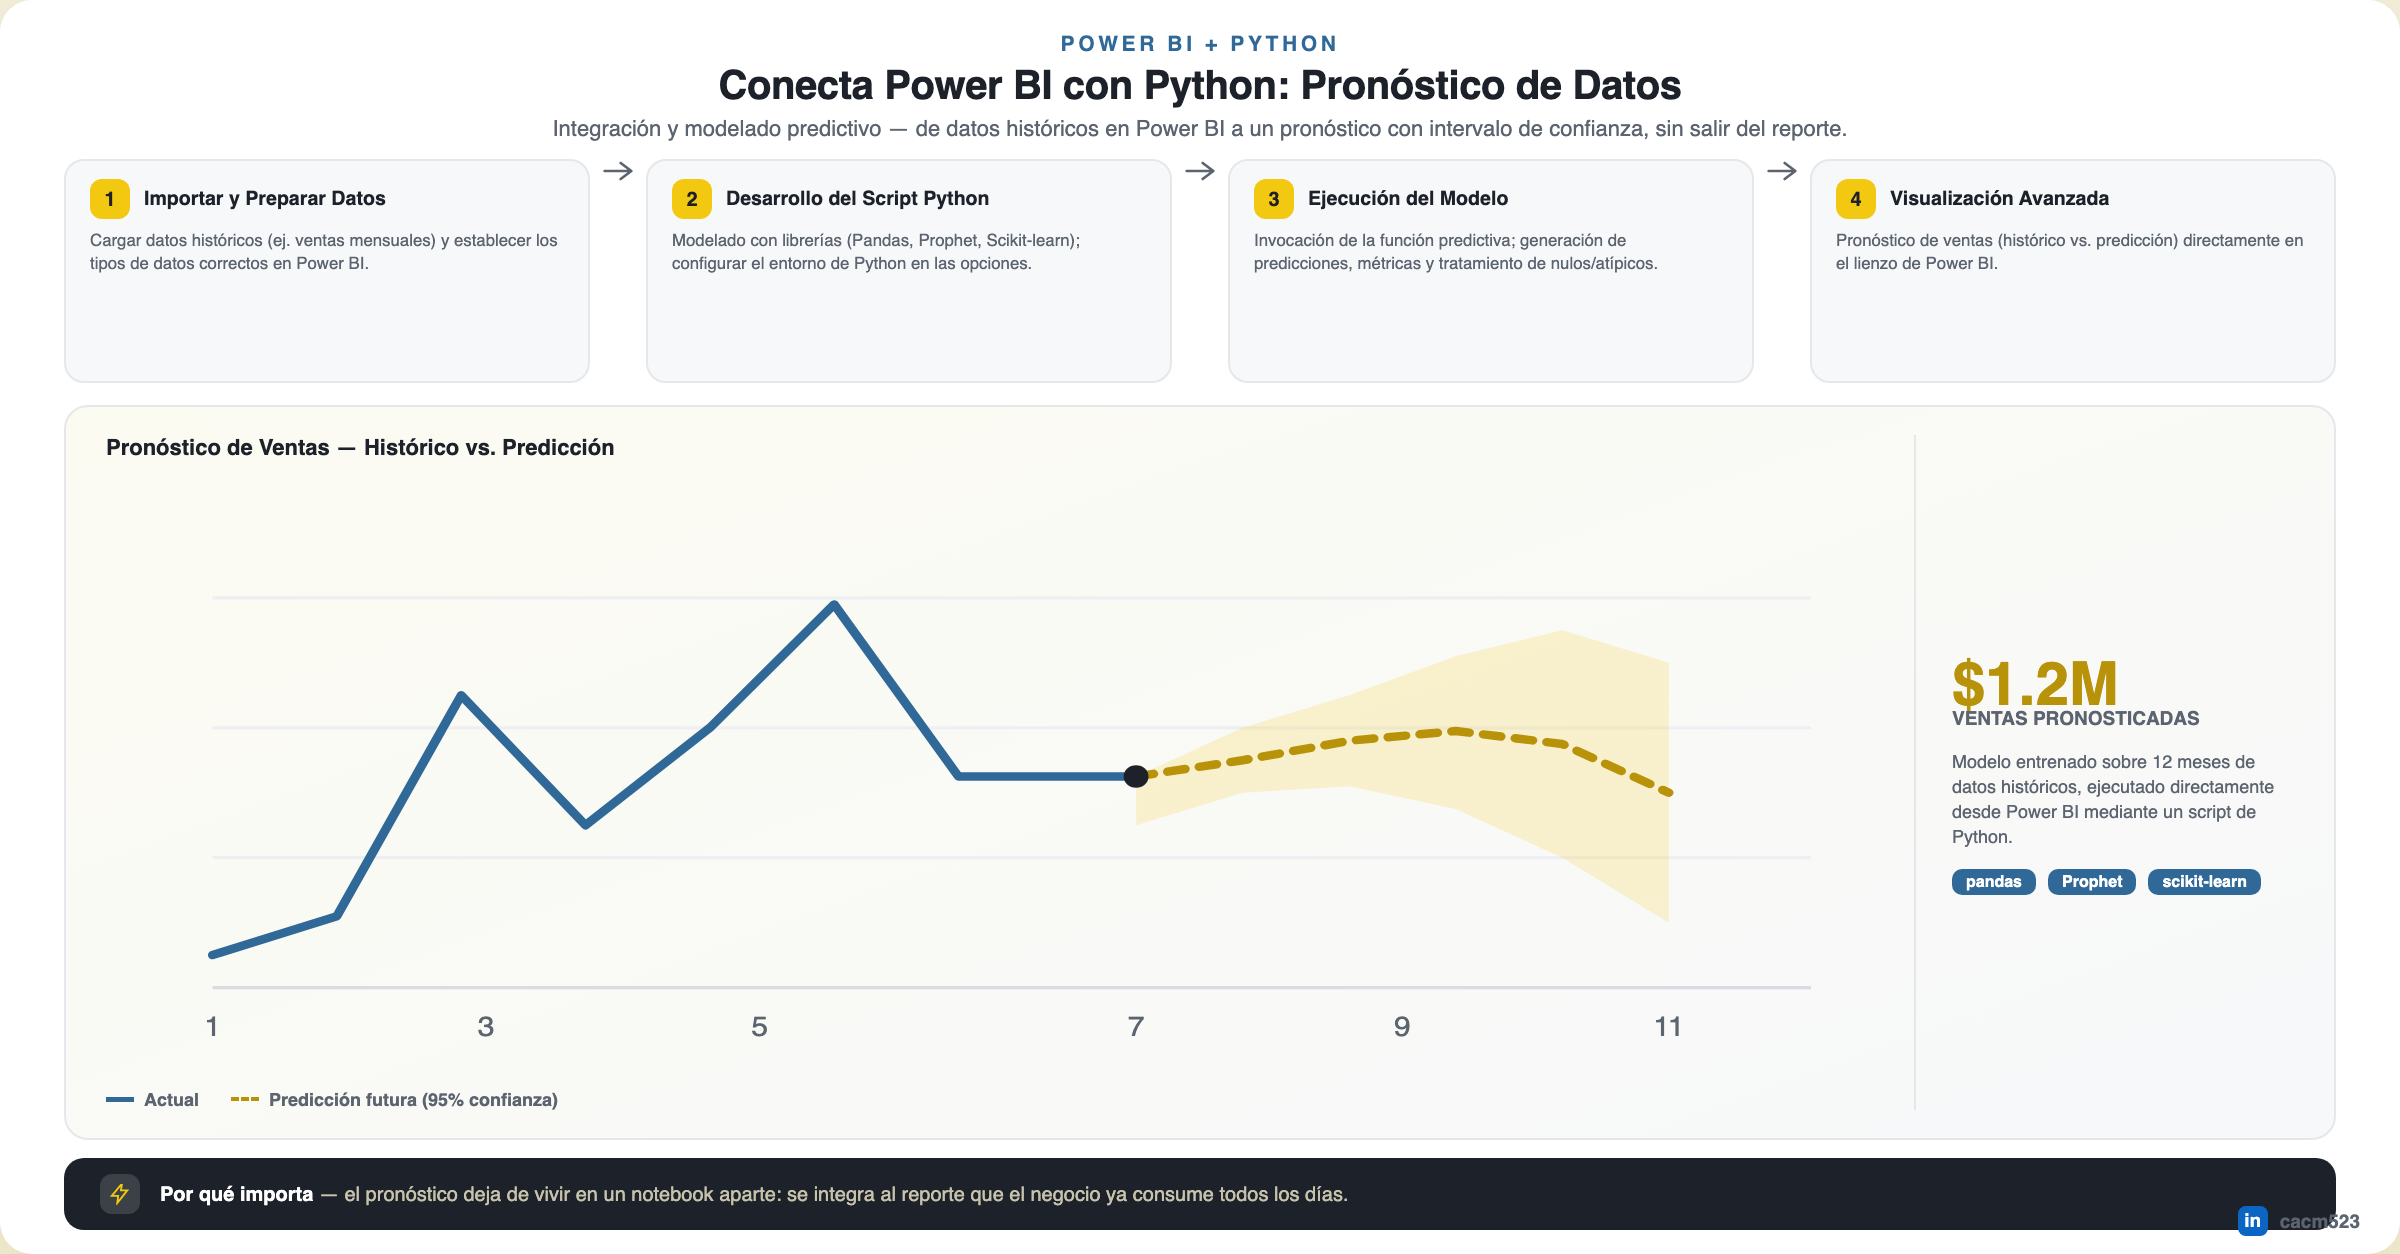
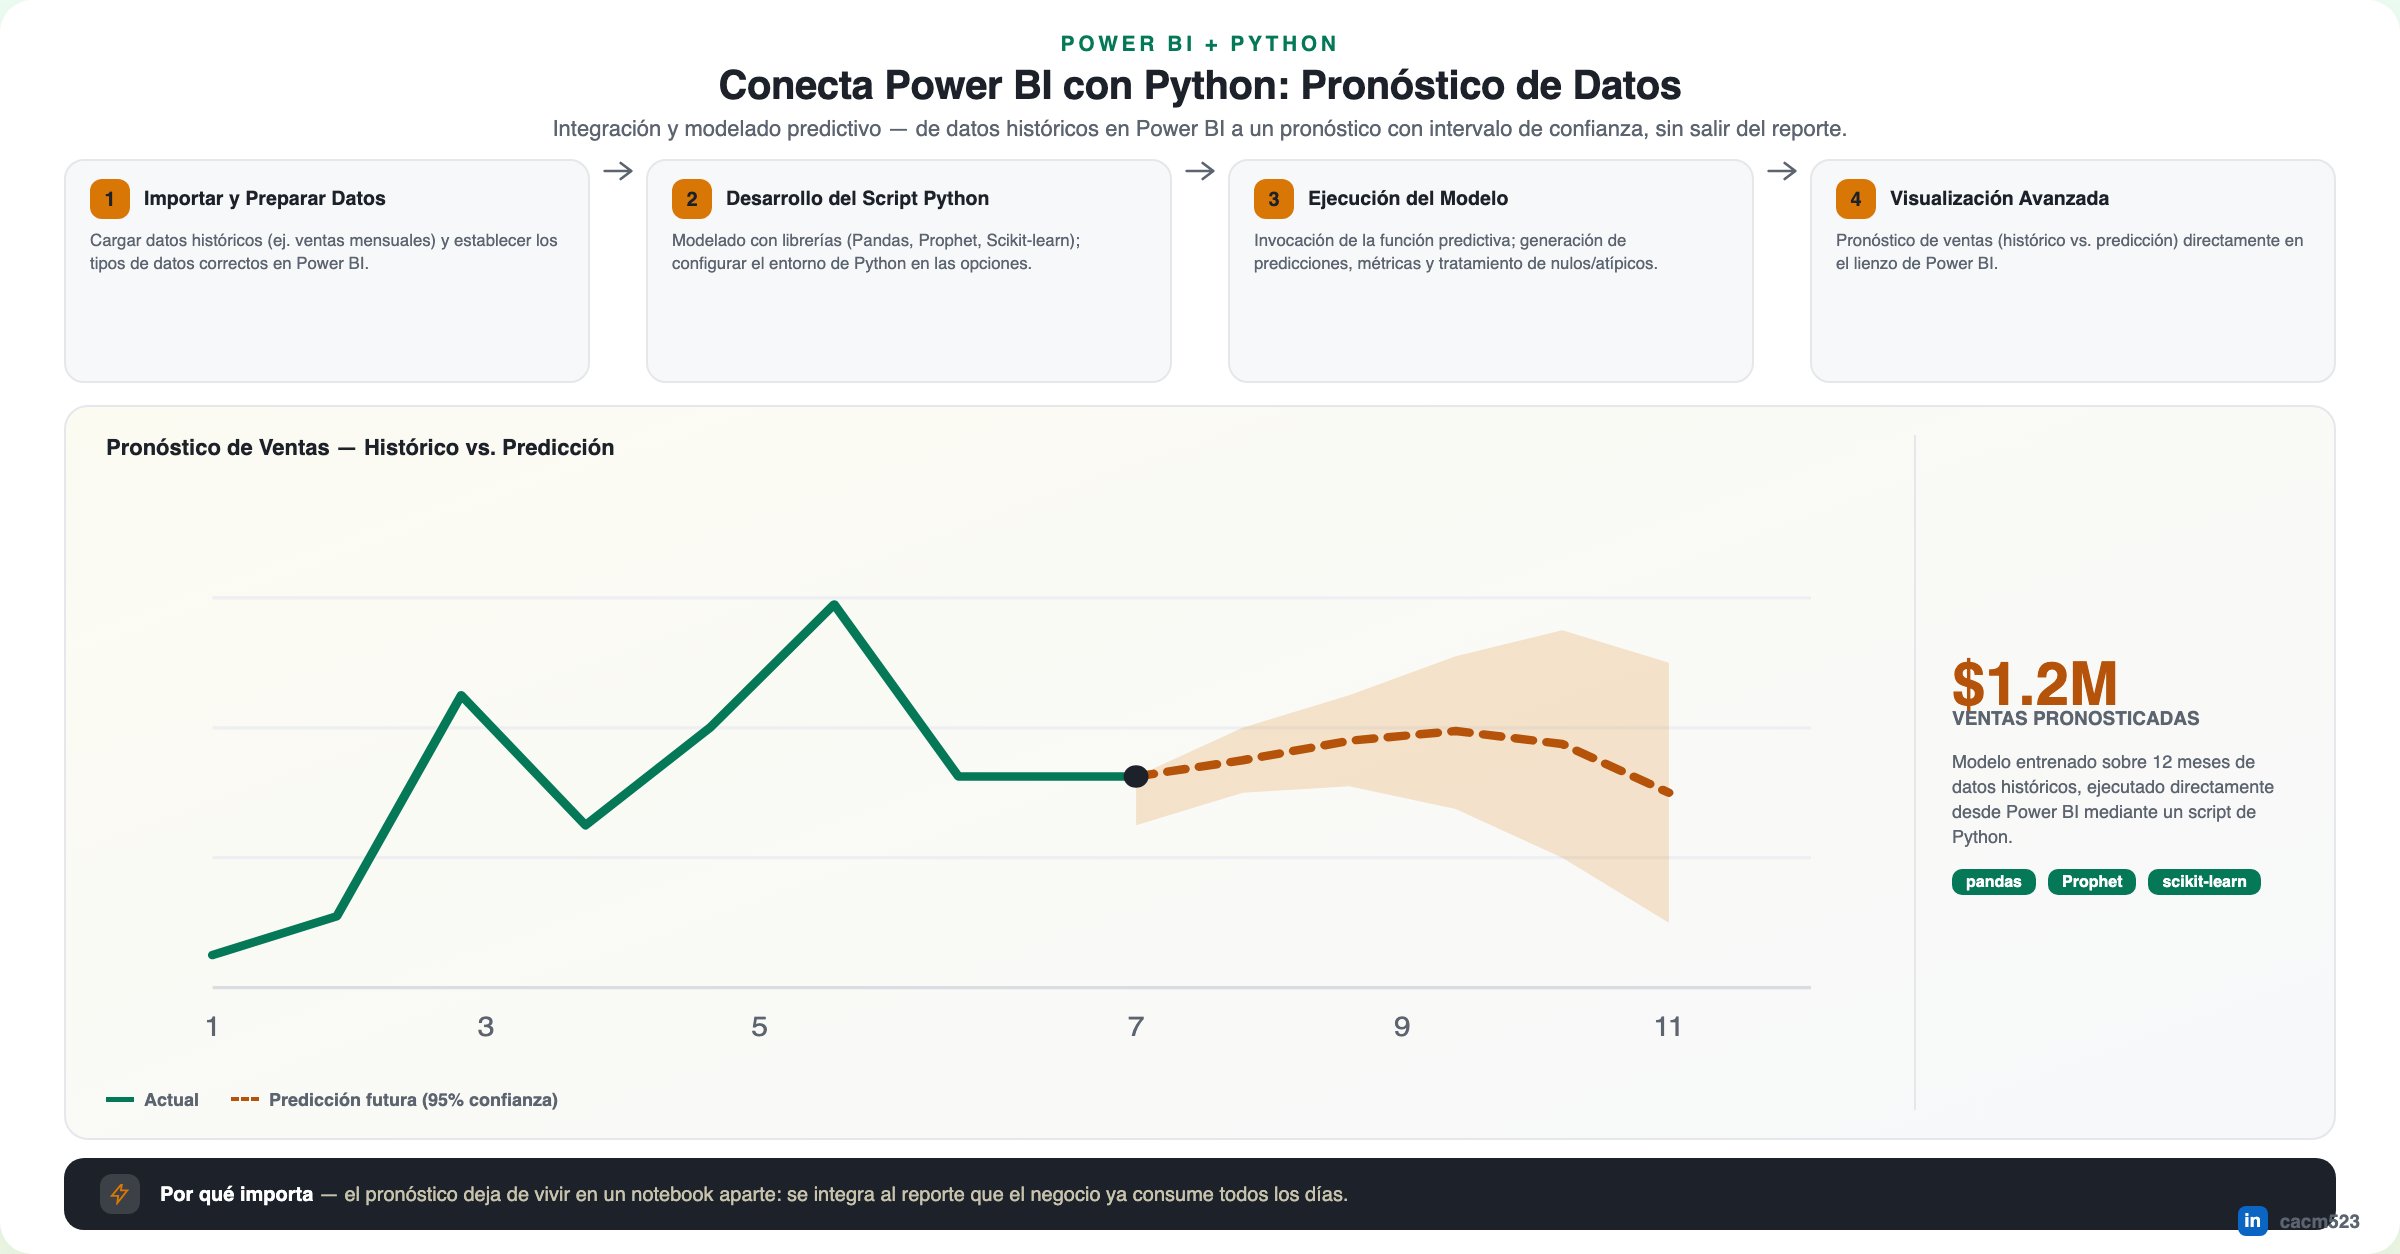
Tanda 9 (powerbi-y-visualizacion): corrige paleta en 2 piezas
- usar-dominar-power-bi: convierte de tema oscuro navy completo a canvas claro verde+tierra (violaba no-dark-mode), conserva el iceberg en tonos hielo como excepción literal
- integracion-python-power-bi: azul/dorado a verde/tierra en gráfico y badges

diff --git a/Construidos/PowerBI/usar-dominar-power-bi.html b/Construidos/PowerBI/usar-dominar-power-bi.html
@@ -6,23 +6,23 @@
 <meta name="viewport" content="width=device-width, initial-scale=1">
 <style>
   :root{
-    --gold:#F2C811; --gold-dark:#C79A0A;
-    --navy:#0B2A4A; --navy2:#0A2039; --deep:#061626;
-    --ice:#EAF3FB; --ice2:#BBD8EE;
-    --ink:#0B1622; --muted:#7D93A8; --white:#FFFFFF;
+    --gold:#D97706; --gold-dark:#B45309;
+    --navy:#ECFDF5; --navy2:#F0FDF9; --deep:#E6F8F0;
+    --ice:#CBD9E0; --ice2:#9FB8C4;
+    --ink:#0F172A; --muted:#475569; --white:#0F172A;
   }
   *{box-sizing:border-box;}
   html,body{margin:0;padding:0;}
   body{
     min-height:627px; display:flex; align-items:center; justify-content:center;
-    padding:32px 16px; background:#0A1F33;
+    padding:32px 16px; background:#ECFDF5;
     font-family: Inter, -apple-system, "Segoe UI", Roboto, Helvetica, Arial, sans-serif;
   }
   .canvas-wrap{ width:100%; max-width:1200px; overflow-x:auto; }
   .canvas{
     position:relative; width:1200px; height:627px; margin:0 auto;
     background:linear-gradient(180deg, var(--navy) 0%, var(--navy2) 55%, var(--deep) 100%);
-    border-radius:16px; box-shadow:0 20px 50px rgba(0,0,0,0.4); overflow:hidden;
+    border-radius:16px; box-shadow:0 20px 50px rgba(6,78,59,0.16); overflow:hidden;
     padding:18px 34px 12px; color:var(--white);
     display:flex; flex-direction:column; min-height:0;
   }
@@ -31,7 +31,7 @@
   .header .eyebrow{ font-size:10.5px; font-weight:700; letter-spacing:1.8px; color:var(--gold); text-transform:uppercase; margin-bottom:4px; }
   .header h1{ font-size:21px; margin:0 0 4px; font-weight:800; letter-spacing:-0.2px; }
   .header h1 em{ font-style:normal; color:var(--gold); }
-  .header p{ margin:0 auto; font-size:11px; color:#B7C7D8; max-width:720px; }
+  .header p{ margin:0 auto; font-size:11px; color:var(--muted); max-width:720px; }
 
   .main{ flex:1; min-height:0; display:flex; align-items:center; gap:26px; }
   .iceberg-wrap{ flex:none; width:340px; height:100%; position:relative; }
@@ -39,26 +39,26 @@
 
   .legend{ flex:1; display:flex; flex-direction:column; gap:9px; height:100%; justify-content:center; }
   .lrow{ display:flex; align-items:center; gap:13px; padding:10px 16px; border-radius:10px; }
-  .lrow.tip{ background:rgba(242,200,17,0.14); border:1px solid rgba(242,200,17,0.4); }
-  .lrow.deep{ background:rgba(255,255,255,0.05); border:1px solid rgba(255,255,255,0.12); }
+  .lrow.tip{ background:rgba(217,119,6,0.10); border:1px solid rgba(217,119,6,0.35); }
+  .lrow.deep{ background:#F8FAFC; border:1px solid #D1FAE5; }
   .lrow .icon{ width:34px; height:34px; border-radius:9px; display:flex; align-items:center; justify-content:center; flex:none; }
   .lrow.tip .icon{ background:var(--gold); color:var(--navy); }
-  .lrow.deep .icon{ background:rgba(255,255,255,0.14); color:var(--ice); }
+  .lrow.deep .icon{ background:#064E3B; color:#ffffff; }
   .lrow .icon svg{ width:18px; height:18px; }
   .lrow b{ display:block; font-size:13.5px; font-weight:800; }
   .lrow.tip b{ color:var(--gold); }
-  .lrow.deep b{ color:var(--ice); }
-  .lrow span{ display:block; font-size:10.3px; color:#AEC0D2; line-height:1.3; margin-top:1px; }
+  .lrow.deep b{ color:var(--ink); }
+  .lrow span{ display:block; font-size:10.3px; color:var(--muted); line-height:1.3; margin-top:1px; }
 
   .ribbon{
     margin-top:9px; display:flex; align-items:center; justify-content:center; gap:10px;
-    background:rgba(242,200,17,0.12); border:1px solid rgba(242,200,17,0.35); color:var(--white); border-radius:10px; padding:9px 18px; font-size:12px; text-align:center;
+    background:rgba(217,119,6,0.10); border:1px solid rgba(217,119,6,0.32); color:var(--ink); border-radius:10px; padding:9px 18px; font-size:12px; text-align:center;
   }
   .ribbon b{ color:var(--gold); }
 
   .footer{ position:absolute; bottom:9px; right:20px; display:flex; align-items:center; gap:6px; }
   .li-badge{ width:15px; height:15px; border-radius:4px; background:#0A66C2; color:#fff; display:flex; align-items:center; justify-content:center; font-size:9.5px; font-weight:800; font-family: Arial, sans-serif; }
-  .footer span{ font-size:9.5px; font-weight:600; color:#8A9CAE; }
+  .footer span{ font-size:9.5px; font-weight:600; color:var(--muted); }
 </style>
 </head>
 <body>
@@ -75,7 +75,7 @@
     <div class="main">
       <div class="iceberg-wrap">
         <svg viewBox="0 0 340 470" preserveAspectRatio="xMidYMid meet">
-          <rect x="0" y="230" width="340" height="240" fill="#0A2C4D" opacity="0.55"/>
+          <rect x="0" y="230" width="340" height="240" fill="#DCEEF5" opacity="0.7"/>
           <line x1="0" y1="230" x2="340" y2="230" stroke="var(--gold)" stroke-width="1.5" stroke-dasharray="4 4" opacity="0.7"/>
           <text x="332" y="222" text-anchor="end" font-size="11" font-weight="800" fill="var(--gold)">NIVEL DEL AGUA</text>
 

diff --git a/Construidos/PowerBI/integracion-python-power-bi.html b/Construidos/PowerBI/integracion-python-power-bi.html
@@ -6,15 +6,15 @@
 <meta name="viewport" content="width=device-width, initial-scale=1">
 <style>
   :root{
-    --gold:#F2C811; --gold-dark:#B8930A; --gold-pale:#FDF6DD;
-    --py-blue:#306998; --py-yellow:#FFD43B;
+    --gold:#D97706; --gold-dark:#B45309; --gold-pale:#FBEEE0;
+    --py-blue:#047857; --py-yellow:#34D399;
     --ink:#1D2129; --muted:#5C6470; --line:#E5E7EA; --white:#FFFFFF; --paper:#F7F8FA;
   }
   *{box-sizing:border-box;}
   html,body{margin:0;padding:0;}
   body{
     min-height:627px; display:flex; align-items:center; justify-content:center;
-    padding:32px 16px; background:#F1EEDD;
+    padding:32px 16px; background:#ECFDF5;
     font-family: Inter, -apple-system, "Segoe UI", Roboto, Helvetica, Arial, sans-serif;
   }
   .canvas-wrap{ width:100%; max-width:1200px; overflow-x:auto; }
